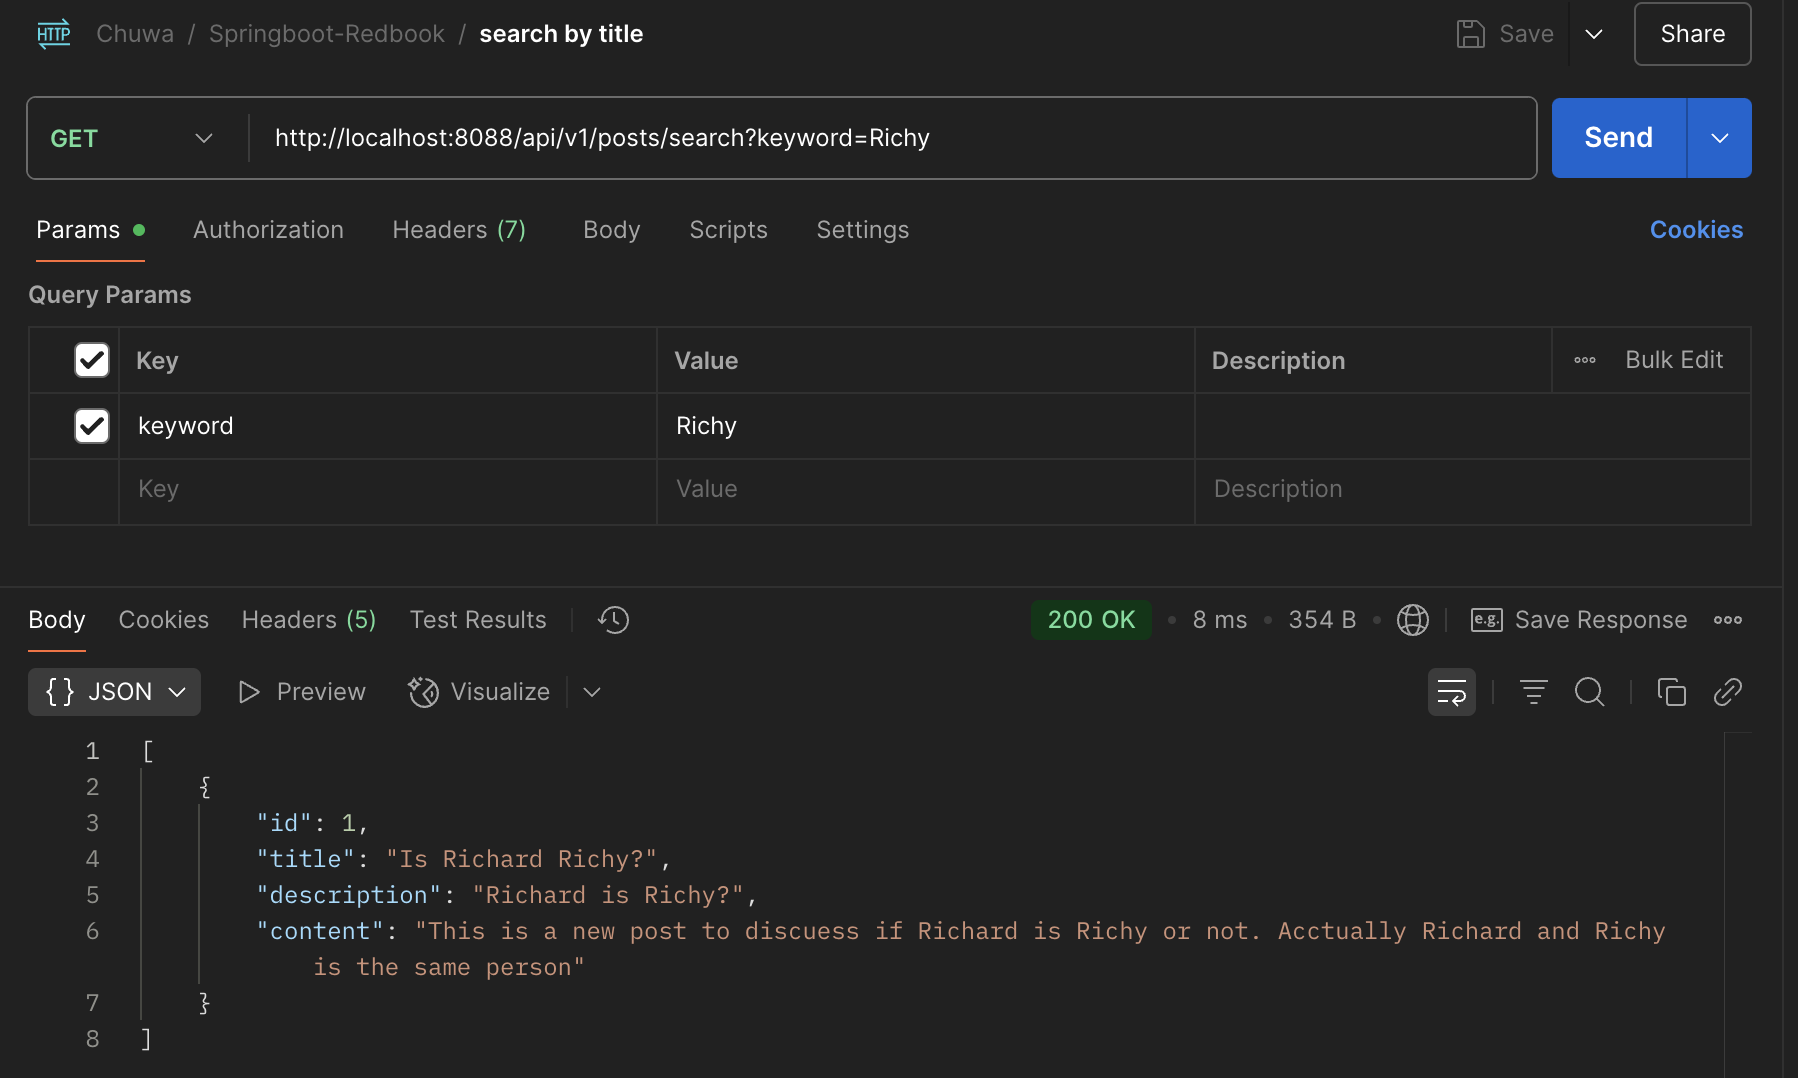
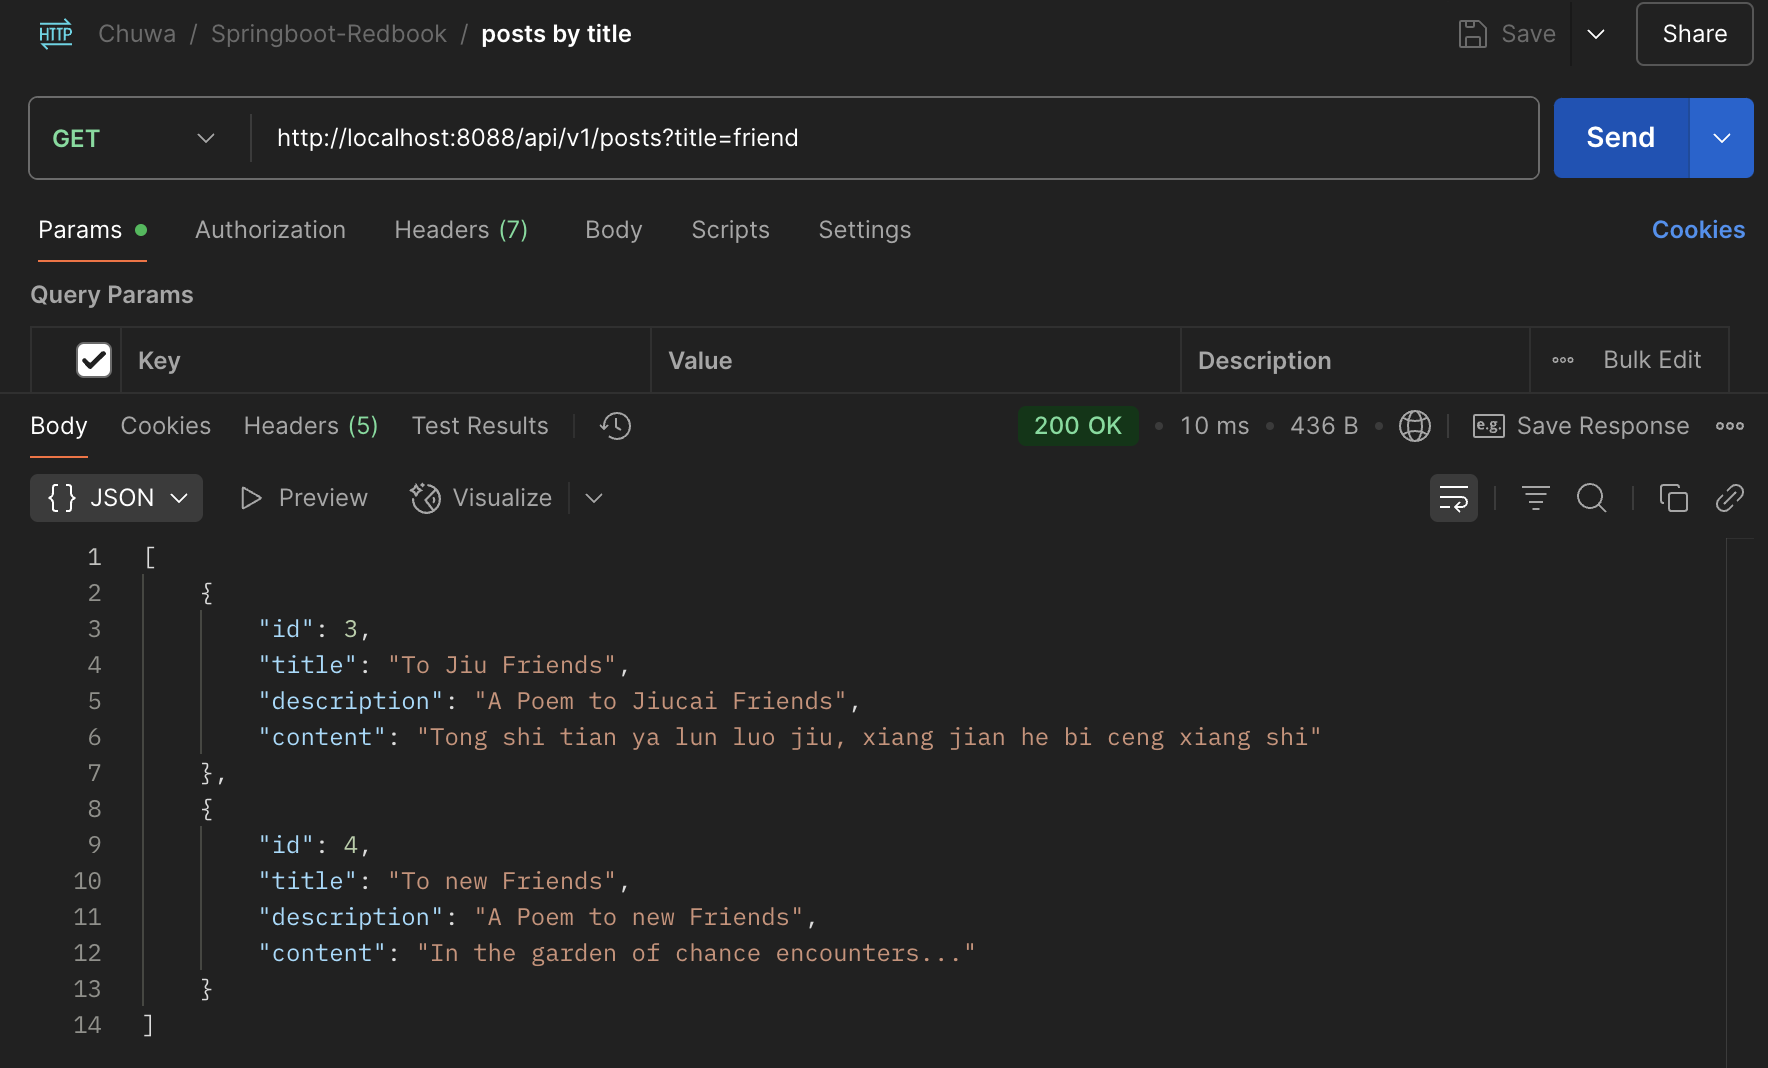
update `Hands-on` part

diff --git a/Short Questions/hw9/hw9.md b/Short Questions/hw9/hw9.md
@@ -107,15 +107,15 @@ PostRepository:
 ```java
 @Repository
 public interface PostRepository extends JpaRepository<Post, Long> {
-List<Post> findByTitleContainingIgnoreCase(String keyword);
+    List<Post> findByTitleContainingIgnoreCase(String title);
 }
 ```
 
 PostServiceImpl:
 ```java
 @Override
-public List<PostDto> searchPostsByTitle(String keyword) {
-    List<Post> posts = postRepository.findByTitleContainingIgnoreCase(keyword);
+public List<PostDto> getPostsByTitle(String title) {
+    List<Post> posts = postRepository.findByTitleContainingIgnoreCase(title);
     return posts.stream()
             .map(this::mapToDTO)
             .collect(Collectors.toList());
@@ -124,10 +124,13 @@ public List<PostDto> searchPostsByTitle(String keyword) {
 
 PostController:
 ```java
-@GetMapping("/search")
-public ResponseEntity<List<PostDto>> searchPostsByTitle(@RequestParam("keyword") String keyword) {
-    List<PostDto> results = postService.searchPostsByTitle(keyword);
-    return new ResponseEntity<>(results,  HttpStatus.OK);
+@GetMapping
+public ResponseEntity<List<PostDto>> getAllPosts(@RequestParam(value = "title", required = false) String title) {
+    if (title == null || title.isBlank()) {
+        return ResponseEntity.ok(postService.getAllPosts());
+    } else {
+        return ResponseEntity.ok(postService.getPostsByTitle(title));
+    }
 }
 ```
 
